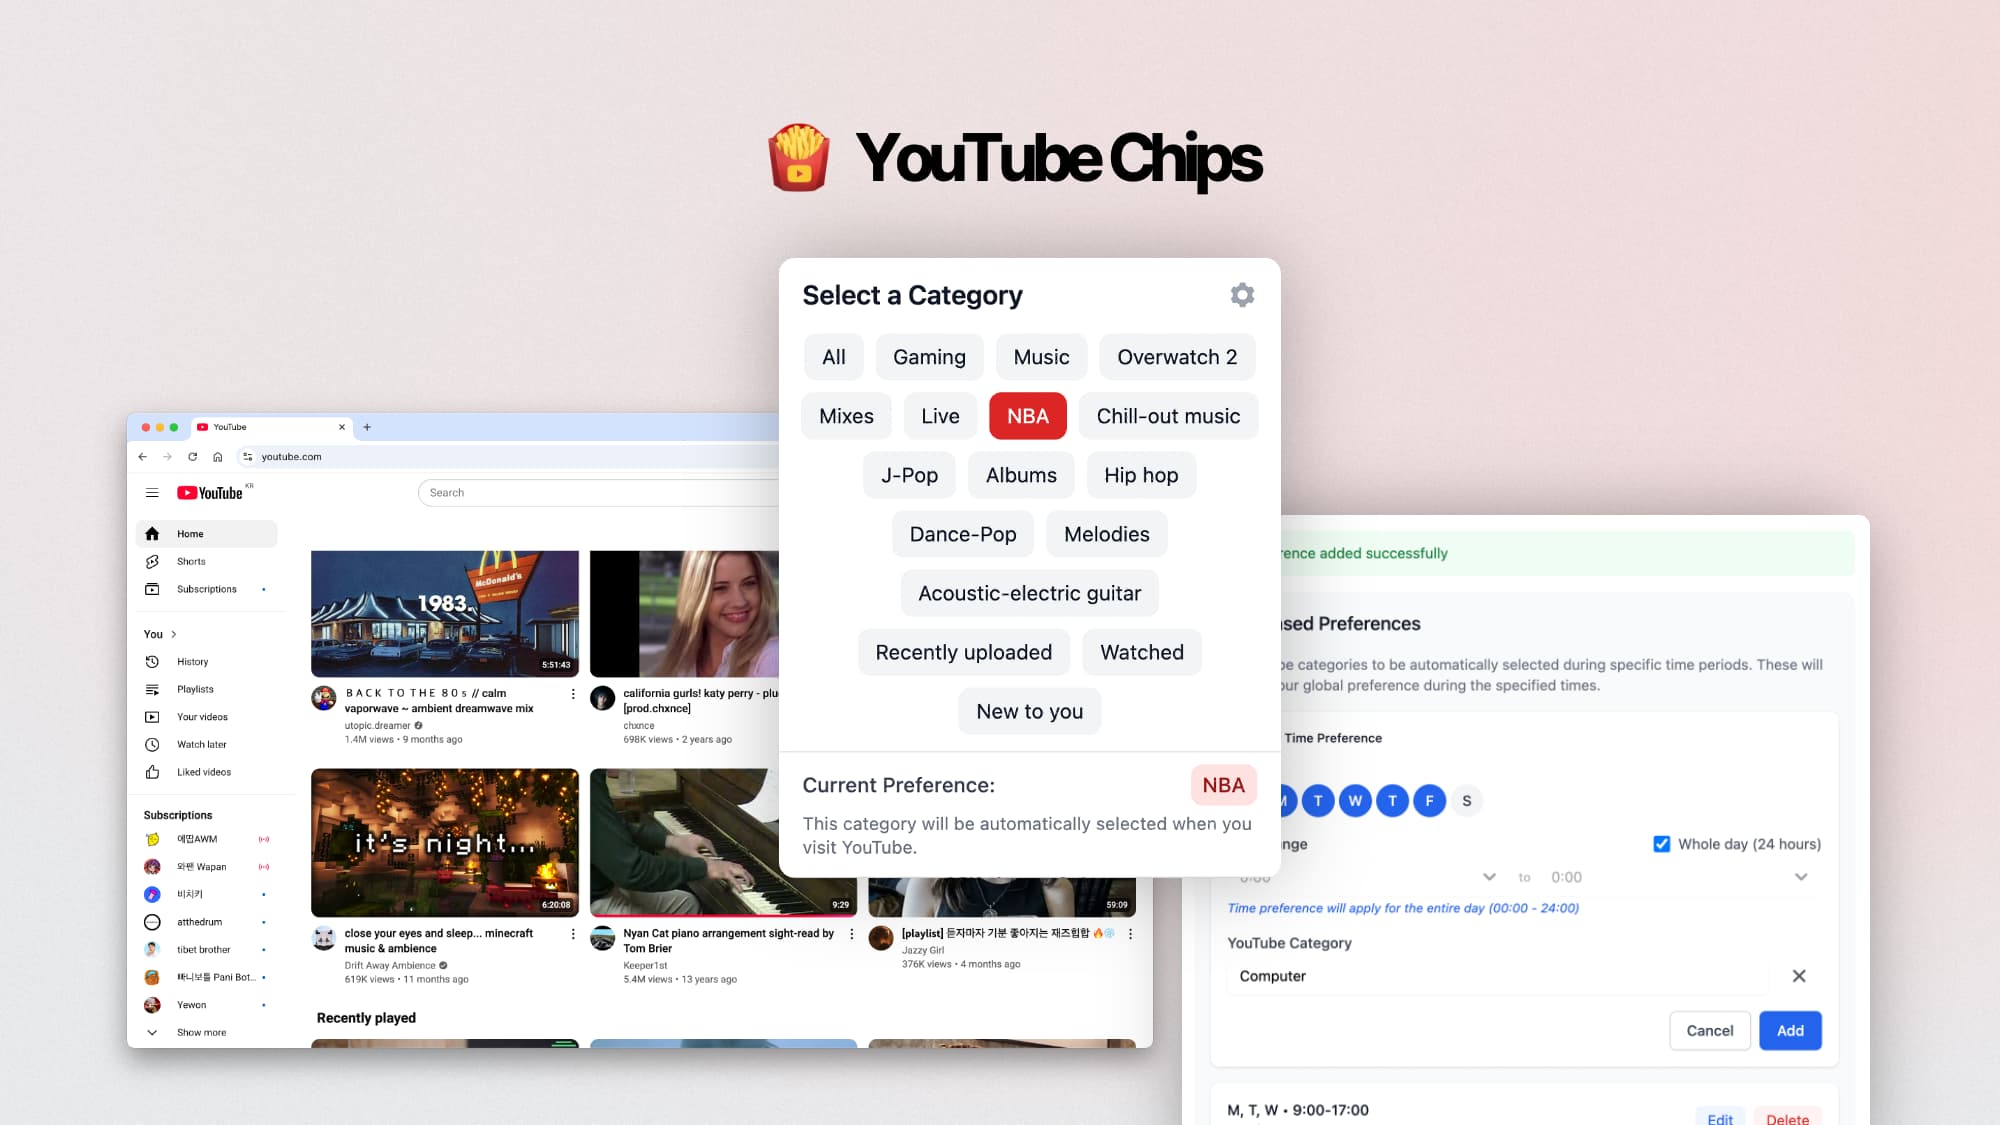
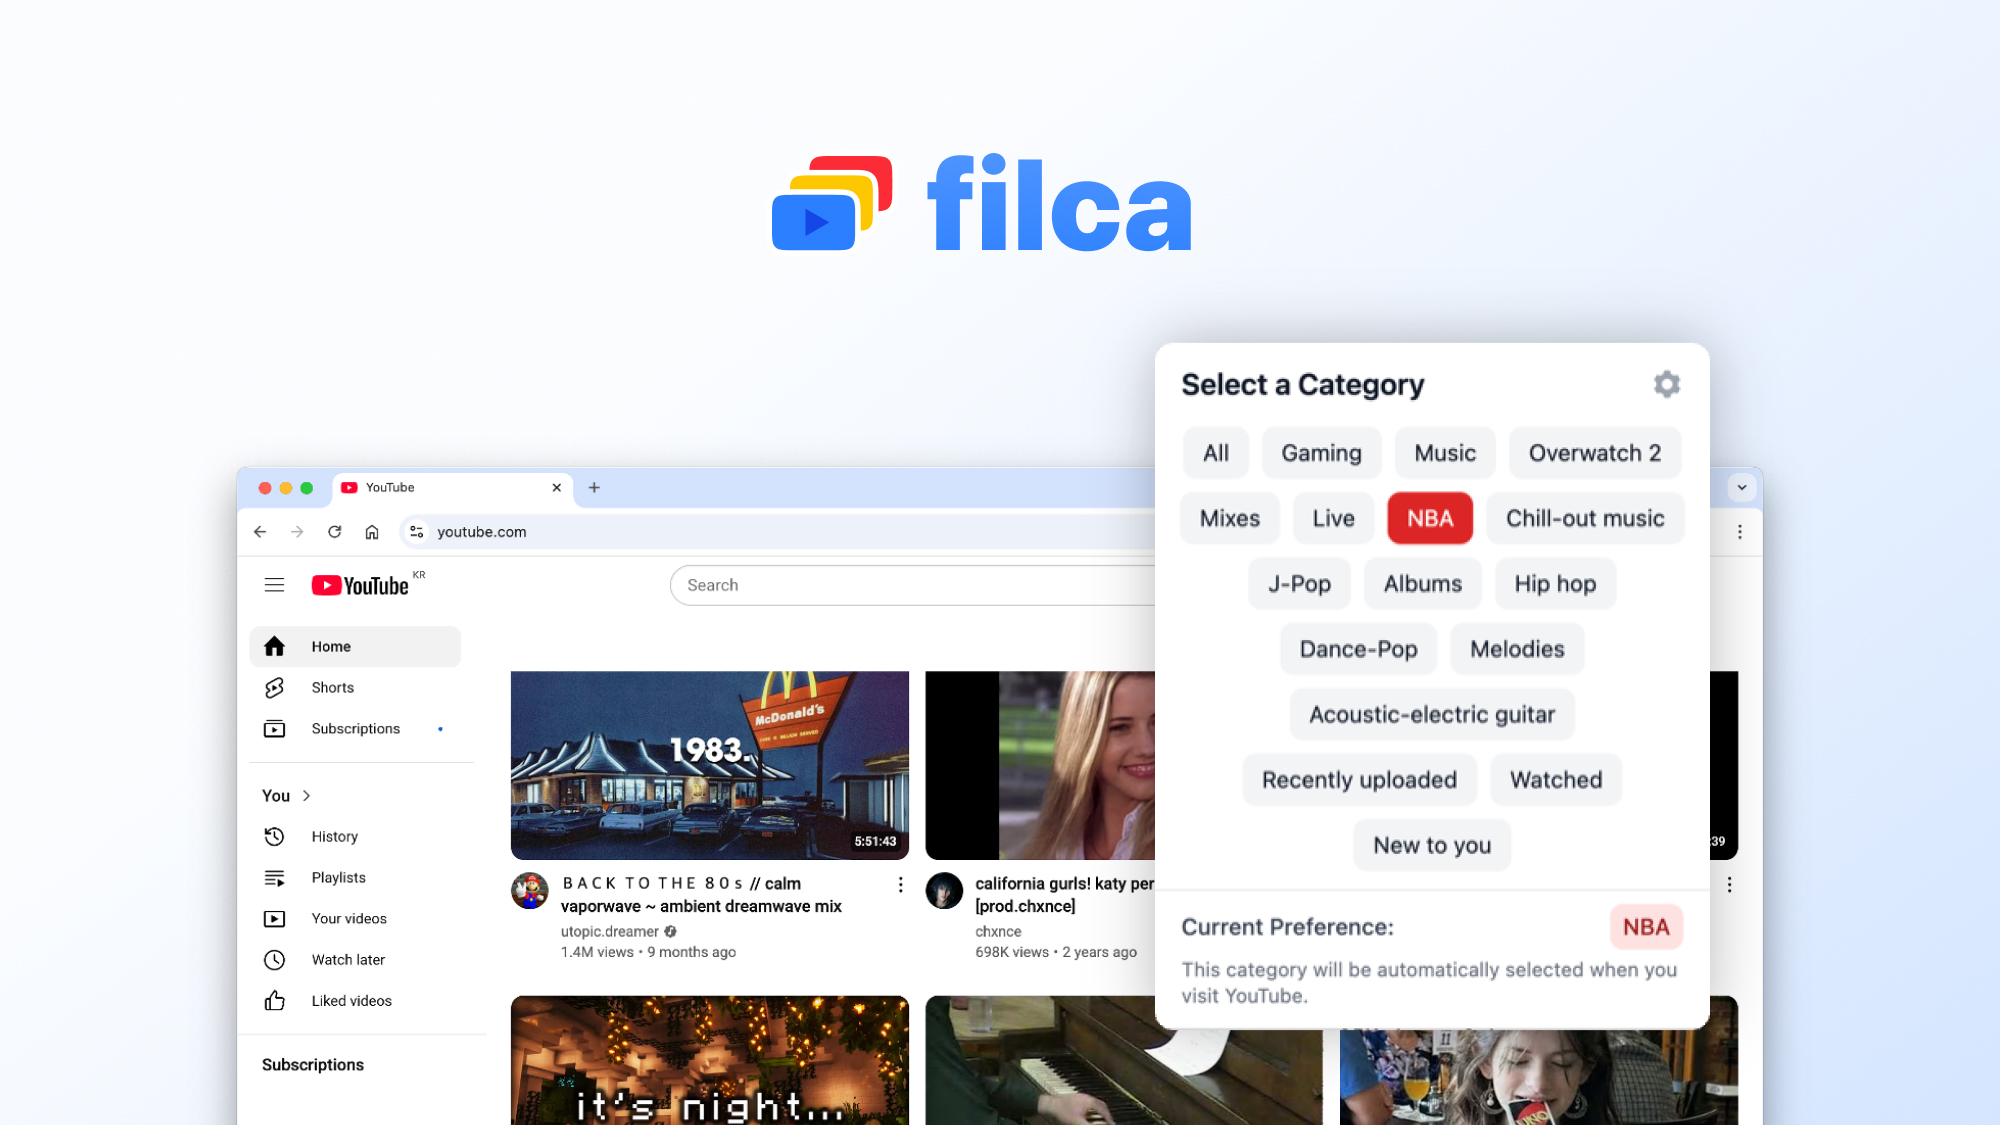
docs: update yc-chip

diff --git a/src/constants/projects.ts b/src/constants/projects.ts
@@ -34,11 +34,11 @@ export const PROJECTS: ProjectType[] = [
     //     category: 'Personal Project'
     // },
     {
-        slug: 'youtube-chips',
-        title: 'YouTube Chips',
+        slug: 'filca',
+        title: 'Filca',
         date: 'Spring 2025',
         summary: 'A Chrome extension that mitigates distractions by filtering YouTube feeds based on user intent.',
-        thumbnail: '/projects/yc/yc-thumbnail.jpg',
+        thumbnail: '/projects/yc/yc-thumbnail-1.jpg',
         tags: ["UX Design", "Full Stack Engineering", "Data Analysis"],
         category: 'Personal Project'
     },
